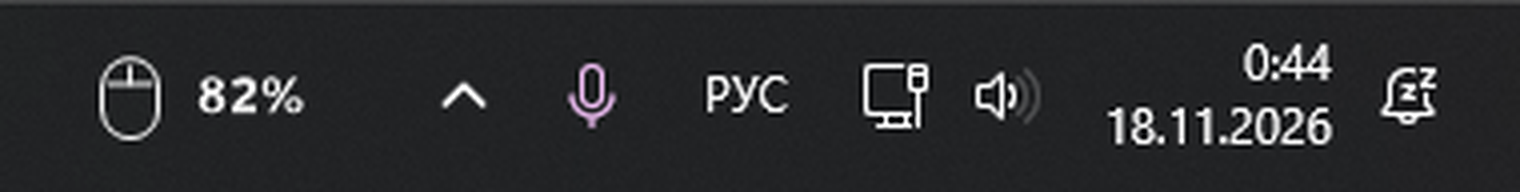
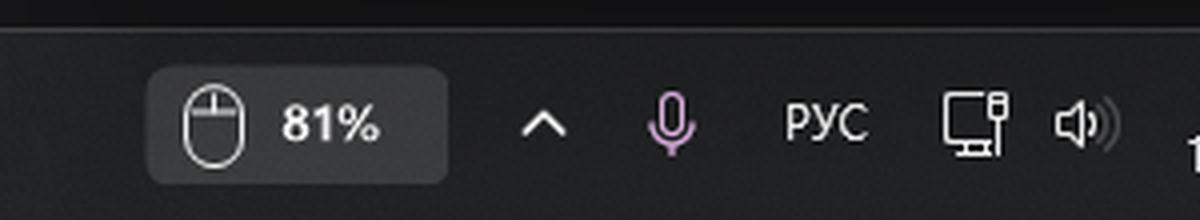
Клик по виджету больше не «съедает» панель: карантин фокуса и игнор повторного открытия

diff --git a/src/AjazzBattery/PanelForm.cs b/src/AjazzBattery/PanelForm.cs
@@ -19,6 +19,8 @@ internal sealed class PanelForm : Form
     private DateTime? _updated;
     private string _subtitle = "Приёмник 2.4 ГГц";
 
+    private readonly System.Windows.Forms.Timer _focusTimer = new() { Interval = 250 };
+    private DateTime _focusGrace = DateTime.MinValue;
     private bool _dragging;
     private Point _dragStart;
 
@@ -74,6 +76,7 @@ internal sealed class PanelForm : Form
         Controls.AddRange(new Control[] { _refreshButton, _settingsButton, _moreButton, _closeButton });
 
         Theme.Changed += OnThemeChanged;
+        _focusTimer.Tick += OnFocusTimerTick;
     }
 
     protected override CreateParams CreateParams
@@ -110,6 +113,9 @@ internal sealed class PanelForm : Form
     }
 
     [System.ComponentModel.DesignerSerializationVisibility(System.ComponentModel.DesignerSerializationVisibility.Hidden)]
+    public DateTime LastAutoHide { get; private set; }
+
+    [System.ComponentModel.DesignerSerializationVisibility(System.ComponentModel.DesignerSerializationVisibility.Hidden)]
     public bool SuppressAutoHide { get; set; }
 
     public void SuppressHide() => SuppressAutoHide = true;
@@ -134,8 +140,15 @@ internal sealed class PanelForm : Form
         var area = screen.WorkingArea;
         Location = new Point(area.Right - Width - 12, area.Bottom - Height - 12);
         Show();
+        NativeUi.ForceForeground(this);
         Activate();
         BringToFront();
+
+        // клик по виджету активирует панель задач, из-за чего панель тут же теряет фокус —
+        // даём ей «карантин» и один раз перехватываем фокус обратно
+        _focusGrace = DateTime.UtcNow.AddMilliseconds(600);
+        _focusTimer.Stop();
+        _focusTimer.Start();
     }
 
     public void ToggleNearTray()
@@ -150,11 +163,32 @@ internal sealed class PanelForm : Form
         }
     }
 
+    private void OnFocusTimerTick(object? sender, EventArgs e)
+    {
+        _focusTimer.Stop();
+        if (!Visible || SuppressAutoHide || _context.IsSettingsOpen)
+        {
+            return;
+        }
+
+        if (!NativeUi.IsForeground(this))
+        {
+            NativeUi.ForceForeground(this);
+            Activate();
+        }
+    }
+
     protected override void OnDeactivate(EventArgs e)
     {
         base.OnDeactivate(e);
+        if (DateTime.UtcNow < _focusGrace)
+        {
+            return;
+        }
+
         if (!SuppressAutoHide && !_context.IsSettingsOpen)
         {
+            LastAutoHide = DateTime.UtcNow;
             Hide();
         }
     }
@@ -343,4 +377,7 @@ internal sealed class PanelForm : Form
         g.DrawString(value, valueFont, valueBrush, row, right);
     }
 }
+
+
+
 

diff --git a/src/AjazzBattery/NativeUi.cs b/src/AjazzBattery/NativeUi.cs
@@ -51,6 +51,19 @@ internal static class NativeUi
         }
     }
 
+    [DllImport("user32.dll")]
+    private static extern bool SetForegroundWindow(IntPtr hwnd);
+
+    [DllImport("user32.dll")]
+    private static extern IntPtr GetForegroundWindow();
+
+    public static void ForceForeground(Form form)
+    {
+        SetForegroundWindow(form.Handle);
+    }
+
+    public static bool IsForeground(Form form) => GetForegroundWindow() == form.Handle;
+
     public static void DragWindow(Form form, Control header)
     {
         header.MouseDown += (_, e) =>
@@ -257,3 +270,4 @@ internal sealed class FlatToggle : Control
         g.FillEllipse(knob, x, 3, knobSize, knobSize);
     }
 }
+

diff --git a/src/AjazzBattery/TrayContext.cs b/src/AjazzBattery/TrayContext.cs
@@ -178,6 +178,12 @@ internal sealed class TrayContext : ApplicationContext
             return;
         }
 
+        // клик по виджету сначала снимает фокус с панели (она прячется сама) — не открываем её снова
+        if (_panel is not null && (DateTime.UtcNow - _panel.LastAutoHide).TotalMilliseconds < 400)
+        {
+            return;
+        }
+
         TogglePanel();
     }
 
@@ -469,5 +475,8 @@ internal sealed class TrayContext : ApplicationContext
         base.ExitThreadCore();
     }
 }
+
+
+
 
 

diff --git a/src/AjazzBattery/TaskbarWidget.cs b/src/AjazzBattery/TaskbarWidget.cs
@@ -358,3 +358,5 @@ internal sealed class TaskbarWidget : Form
 
 
 
+
+
